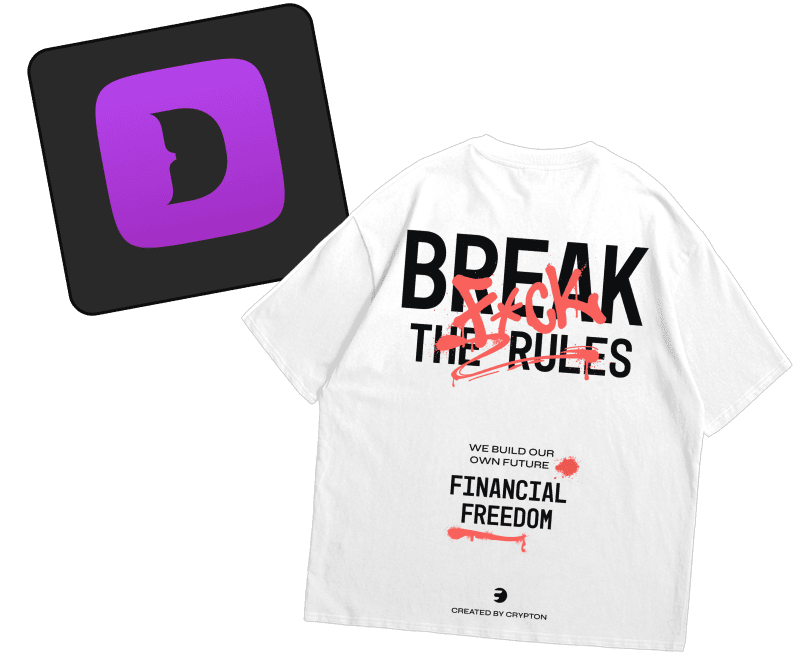
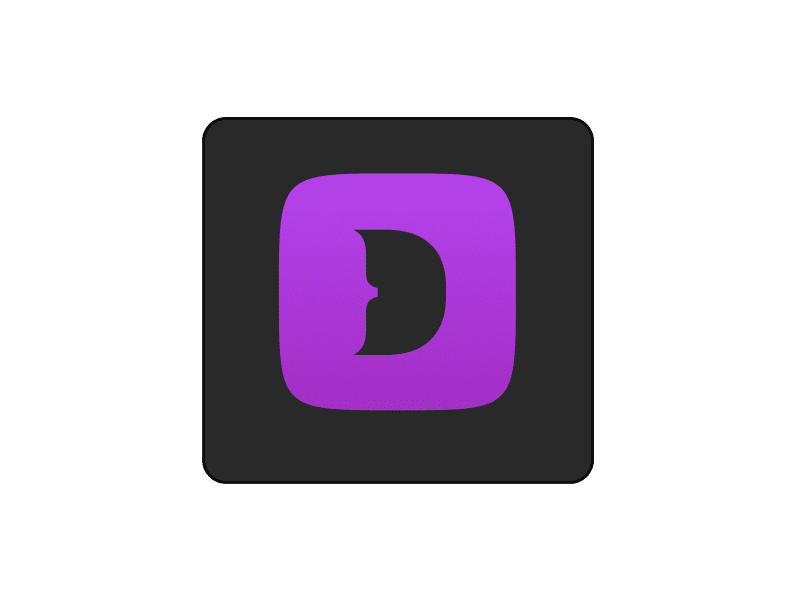
new images and faq fix

diff --git a/components/accordion/accordion.tsx b/components/accordion/accordion.tsx
@@ -4,61 +4,6 @@ import AccordionItem from "./accordionItem"
 
 const leftColumnData = [
   {
-    question: "Участие в акции",
-    answer: (
-      <div className="accordion__title text">
-        <p>
-          Если пользователь приобретает подписку Prime и открывает подарки во
-          время акции дня рождения, то возврат средств не предусмотрен.
-        </p>
-      </div>
-    ),
-  },
-  {
-    question: "Трейд-бан подарков",
-    answer: (
-      <div className="accordion__title text">
-        <p>
-          После открытия бокса вы получите подарок в инвентарь Crypton ID с
-          трейд-баном на 48 часов. Как только трейд-бан спадет, вы сможете
-          активировать и забрать свой подарок в виде TON NFT.
-          <br />
-          <br />
-          Для этого вам потребуется кошелек. Мы рекомендуем использовать{" "}
-          <a
-            href="https://tools.crypton.xyz/wallets_and_cex/wallets?networks=TON&name=Tonkeeper"
-            target="_blank"
-          >
-            Tonkeeper.
-          </a>
-        </p>
-      </div>
-    ),
-  },
-  {
-    question: "Обналичивание подарков в $$$ или баланс Crypton ID",
-    answer: (
-      <div className="accordion__title text">
-        <p>
-          Если вы не хотите забирать подарок, вы можете обналичить его в виде
-          **USDT** или баланса на{" "}
-          <a href="https://id.crypton.xyz/" target="_blank">
-            Crypton ID
-          </a>
-          . Чтобы начать процедуру, свяжитесь{" "}
-          <a href="https://t.me/crypton_support" target="_blank">
-            с наставником
-          </a>
-          .
-          <br />
-          <br />
-          Важно: это возможно только при наличии NFT без трейд-бана.
-        </p>
-      </div>
-    ),
-  },
-
-  {
     question: "Как получить подписку бесплатно?",
     answer: (
       <div className="accordion__title text">
@@ -174,46 +119,6 @@ const leftColumnData = [
 ]
 
 const rightColumnData = [
-  {
-    question: "Вывод подарков в реальный мир",
-    answer: (
-      <div className="accordion__title text">
-        <p>
-          Чтобы получить подарок, достаточно вывести NFT из инвентаря{" "}
-          <a href="https://id.crypton.xyz/" target="_blank">
-            Crypton ID
-          </a>{" "}
-          на TON кошелек (мы рекомендуем{" "}
-          <a
-            href="https://tools.crypton.xyz/wallets_and_cex/wallets?networks=TON&name=Tonkeeper"
-            target="_blank"
-          >
-            Tonkeeper
-          </a>
-          ). Затем перейдите на сайт{" "}
-          <a href="https://merch.crypton.xyz/" target="_blank">
-            https://merch.crypton.xyz/
-          </a>
-          , выберите свой подарок и следуйте инструкции по его активации.
-        </p>
-      </div>
-    ),
-  },
-  {
-    question: "Проблемы с оплатой и другие ошибки",
-    answer: (
-      <div className="accordion__title text">
-        <p>
-          Если у вас возникли проблемы с оплатой или любые другие ошибки на
-          любом этапе, незамедлительно свяжитесь с{" "}
-          <a href="https://t.me/crypton_support" target="_blank">
-            наставником
-          </a>
-          .
-        </p>
-      </div>
-    ),
-  },
   {
     question: "Почему стоит выбрать Prime? ",
     answer: (

diff --git a/sections/BuySubscription/BuySubscriptionPromo.module.scss b/sections/BuySubscription/BuySubscriptionPromo.module.scss
@@ -108,7 +108,7 @@
   backdrop-filter: blur(40px);
   background: rgba(34, 34, 34, 0.7);
   padding: 18px;
-  height: 680px;
+  height: 631px;
   box-sizing: border-box;
 
   @media (max-width: 1919px) and (min-width: 1368px) {
@@ -211,7 +211,7 @@
   }
 
   &_img {
-    height: 218px;
+    height: 200px;
     margin-top: 20px;
     width: fit-content;
     margin-left: auto;
@@ -231,7 +231,7 @@
     }
     &_4 {
       @media (max-width: 767px) {
-        margin-top: 0;
+        margin-top: 10px;
       }
     }
   }
